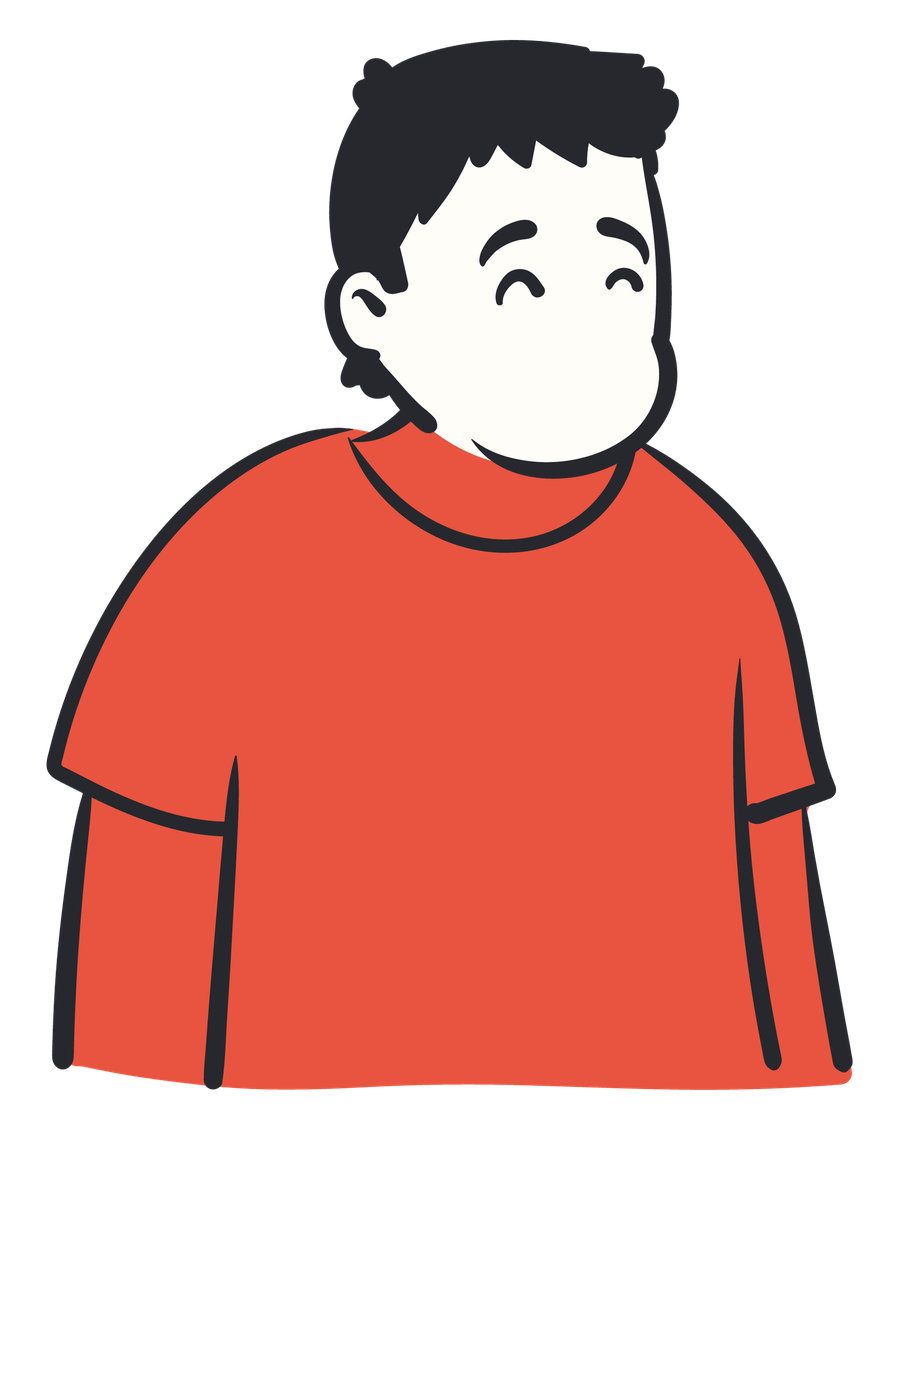
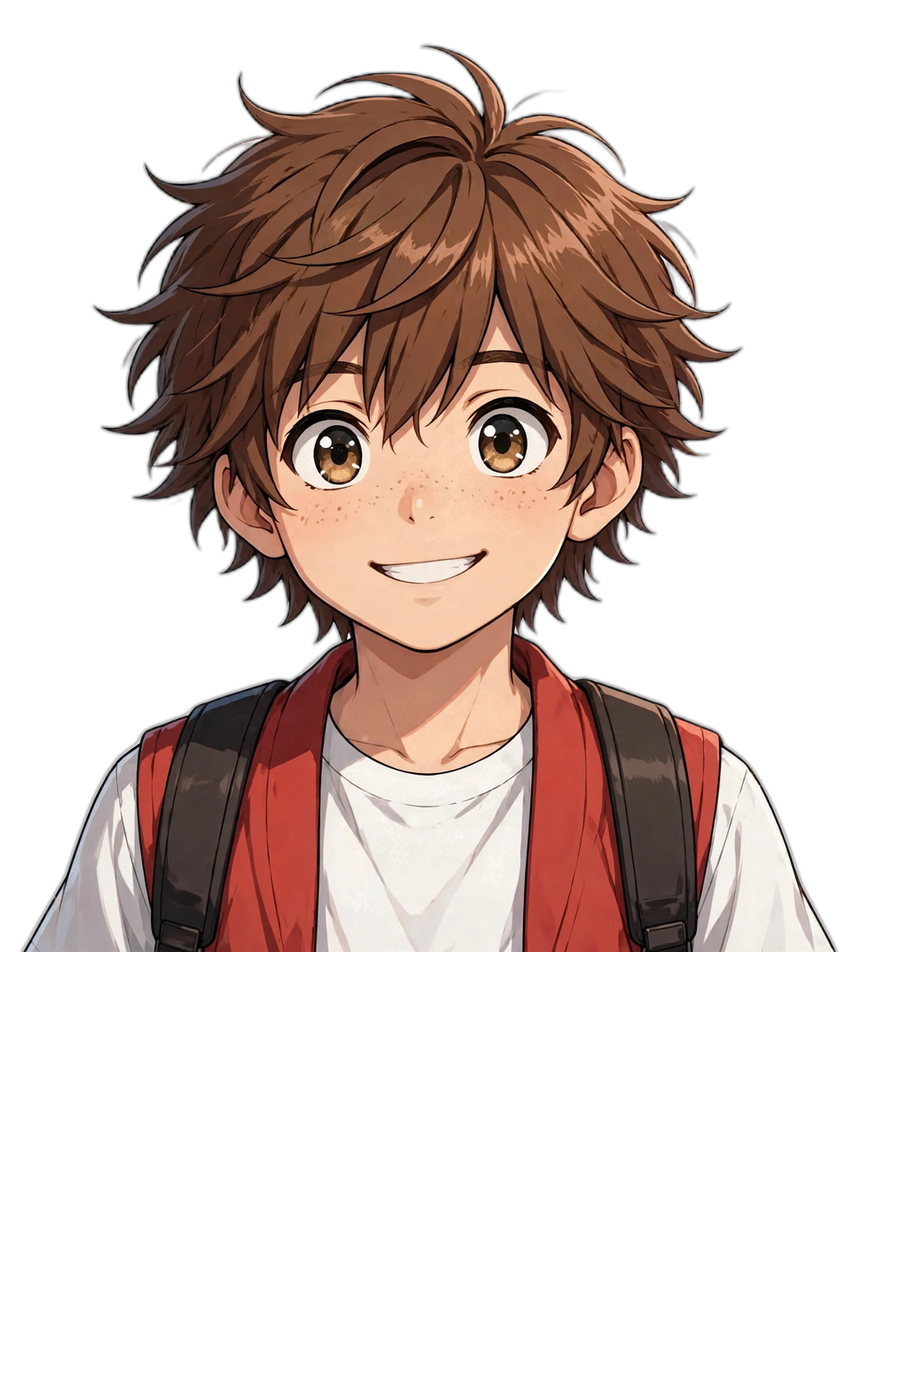
ep01 perfection pass by Muse (DSH stopped per user order)
- motion.py: fix pop_in/zoom_in anchor (y used h*F/2, shifting sprites
  down by th/2 at rest; Manabu was cut off at the feet in every scene)
- assemble.py: prefer scenes_v2 backgrounds (quiz board excluded,
  its text slots are calibrated to the original board art); quiz
  auto-fill now blocked only by quiz_choices overlays; per-asset
  feet_y override for scenes whose floor line differs from 930
- text_overlays.py: draw the answer check as lines (font lacks
  U+2714 and fell back to a boxed X); slim highlight rows and lift
  2-line questions to avoid overlap with the row-1 highlight
- ep01 script: fix 11 shifted readings (s05_b05/s09_b02 missing
  sentence heads, quiz choice splits in s16-s18, s17 clause shift,
  s19 recap duplication); drop quiz_choices overlays; ground
  characters in lab (feet_y 1000) and timeline (995) scenes;
  move Sensei right in s05 and in quiz scenes (1700) so she no
  longer covers the question text or stands on a pot
- ep01 overlay: bust sprites replaced with characters_v2 deliveries

diff --git a/tools/editor/assemble.py b/tools/editor/assemble.py
@@ -77,6 +77,19 @@ CHAR_CONTENT_H = 780.0     # visible content height target (feet 930, top ~150)
 CHAR_SCALE_MAX = 1.5       # absolute safety ceiling (avoid upsampling tiny art)
 CHAR_FEET_Y = 930.0
 
+
+def _bg_path(assets_dir: Path, bg_name: str) -> Path:
+    """Prefer Muse's rich backgrounds (scenes_v2) when delivered.
+
+    bg_quiz_board is excluded: the quiz text overlay positions
+    (QUIZ_ROW_Y etc.) are calibrated to the original board art.
+    """
+    if bg_name != "bg_quiz_board":
+        v2 = assets_dir / "scenes_v2" / f"{bg_name}.png"
+        if v2.is_file():
+            return v2
+    return assets_dir / "scenes" / f"{bg_name}.png"
+
 _bbox_cache: dict[str, tuple] = {}
 
 
@@ -209,7 +222,7 @@ def build_plan(script: dict, timing: dict, assets_dir: Path,
             frames=frames, dur=frames / FPS, seg_start=seg_start,
             cam_motion=cam.get("motion", "kenburns_in"),
             cam_intensity=cam.get("intensity", 1.0),
-            bg=str(assets_dir / "scenes" / f"{bg_name}.png")))
+            bg=str(_bg_path(assets_dir, bg_name))))
         clip = ai_segments.resolve_clip(sc, ep, ai_manifest or {})
         if clip:
             spans[-1].ai_src = clip
@@ -276,7 +289,9 @@ def scene_layers(span: Span, scene: dict, ts: dict, assets_dir: Path,
     # quiz board auto-fill (P2-2: ボード空欄問題) — under characters/overlays.
     # Skipped when the writer already provides overlay_text (e.g. quiz_choices)
     has_script_quiz_overlay = any(
-        b.get("overlay_text") for b in scene.get("beats", []))
+        ot.get("style") == "quiz_choices"
+        for b in scene.get("beats", [])
+        for ot in (b.get("overlay_text") or []))
     if quiz_item and not has_script_quiz_overlay:
         from text_overlays import render_quiz_board
         q = quiz_item.get("q", "")
@@ -352,7 +367,8 @@ def scene_layers(span: Span, scene: dict, ts: dict, assets_dir: Path,
             max(2, int(round(ih * scale)) // 2 * 2)
         if _is_char(name):
             px = px + tw / 2.0 - content_cx * scale   # content center at px
-            py = CHAR_FEET_Y + th / 2.0 - bb * scale  # content bottom on line
+            feet_y = float(a.get("feet_y", CHAR_FEET_Y) or CHAR_FEET_Y)
+            py = feet_y + th / 2.0 - bb * scale  # content bottom on line
         t0 = appear_for(name)
         cid = next((c for c in char_ids if c and c in name.lower()), "")
         my_wins = [(b["start"], b["end"]) for b in beats

diff --git a/tools/editor/text_overlays.py b/tools/editor/text_overlays.py
@@ -161,7 +161,7 @@ def render_quiz_board(question: str, choices: list[str],
 
     qx, qy = QUIZ_Q_CENTER
     lines = wrap_lines(_quiz_sanitize(question), 24)[:2]
-    yy = qy
+    yy = qy - 12 if len(lines) == 2 else qy
     for ln in lines:
         d.text((qx, yy), ln, font=q_font, anchor="mm",
                fill=hex_rgba(ai), stroke_width=0)
@@ -170,7 +170,7 @@ def render_quiz_board(question: str, choices: list[str],
     for i, row_y in enumerate(QUIZ_ROW_Y):
         hl = (highlight == i)
         if hl:
-            d.rounded_rectangle([470, row_y - 36, 1520, row_y + 36], radius=14,
+            d.rounded_rectangle([470, row_y - 30, 1520, row_y + 30], radius=14,
                                 fill=hex_rgba(YAMABUKI, 215))
         mark = QUIZ_MARKS[i] if i < len(QUIZ_MARKS) else "?"
         d.text((QUIZ_TEXT_X, row_y), mark, font=m_font, anchor="lm",
@@ -179,8 +179,12 @@ def render_quiz_board(question: str, choices: list[str],
         d.text((QUIZ_TEXT_X + 70, row_y), txt, font=c_font, anchor="lm",
                fill=hex_rgba(TEXT_DARK))
         if hl:
-            d.text((QUIZ_TEXT_X - 46, row_y), "✔", font=m_font, anchor="lm",
-                   fill=hex_rgba(SHU))
+            # drawn check: the Black font has no U+2714 glyph and falls
+            # back to a boxed X, which reads as "wrong" on the answer row
+            cx = QUIZ_TEXT_X - 46
+            d.line([(cx + 2, row_y), (cx + 13, row_y + 11),
+                    (cx + 34, row_y - 13)],
+                   fill=hex_rgba(SHU), width=7, joint="curve")
     return img
 
 

diff --git a/tools/editor/motion.py b/tools/editor/motion.py
@@ -122,7 +122,7 @@ def layer_motion(motion: str | None, t0: float, dur: float, px: float, py: float
             f"scale=w='trunc(iw*{F}/2)*2':h='trunc(ih*{F}/2)*2':eval=frame")
         # center-x anchoring; feet line (py + th/2) stays fixed under F
         out["x"] = f"{px:.1f}-w/2"
-        out["y"] = f"{py + th / 2:.1f}-h*{F}/2{bob}"
+        out["y"] = f"{py + th / 2:.1f}-h{bob}"
     elif m == "slide_in_left":
         x0 = -tw - 24.0
         out["x"] = (f"({x0:.1f}+({left:.1f}-{x0:.1f})*{ease_out_cubic(p)})"
